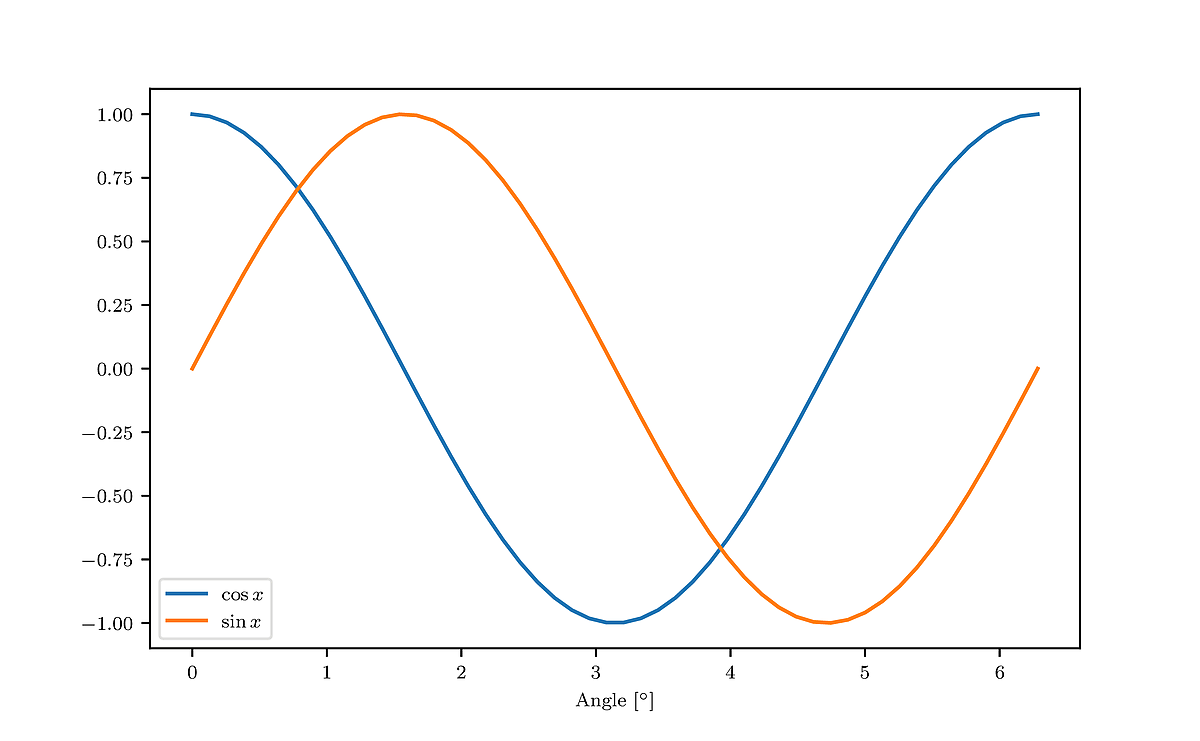
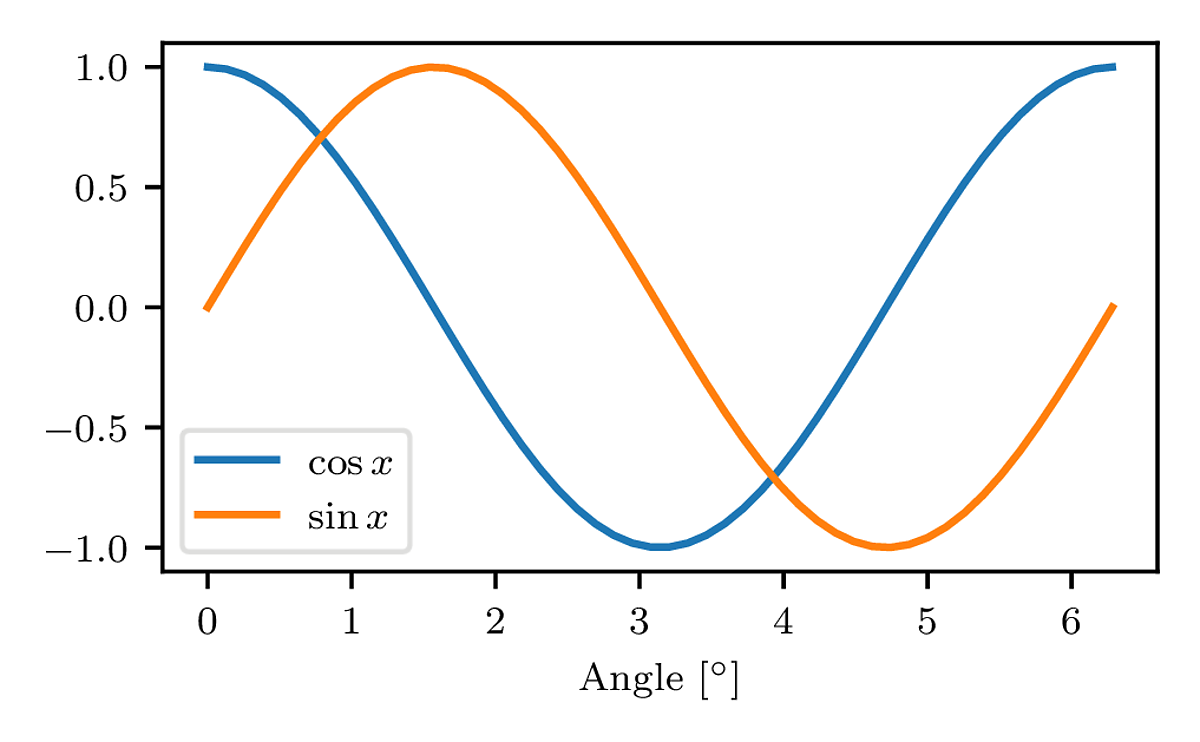
Change layout

diff --git a/README.md b/README.md
@@ -34,6 +34,8 @@ plt.xlabel("Angle $[^\circ]$")
 
 plt.legend()
 
+plt.tight_layout()
+
 plt.savefig("plot.pdf")
 ```
 
